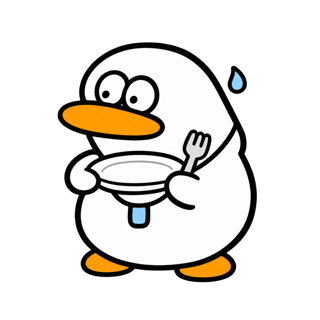
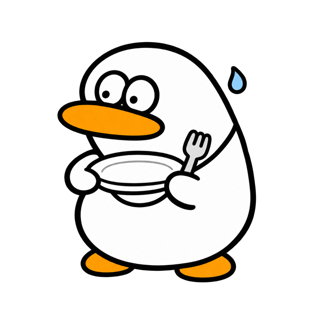
오둥이 등을 원래처럼 매끈하게 (아스트로가 다시 그림)
- 메인 그림 · 빈 접시 오둥이: 등에 생긴 굴곡을 없애고 하나의 곡선으로, 빈 접시 그림의 남은 카메라 끈 제거
- 앱 아이콘도 새 그림으로 다시 만듦

diff --git a/index.html b/index.html
@@ -17,7 +17,7 @@
 <link rel="apple-touch-icon" href="assets/icons/apple-touch-icon.png">
 <link rel="preconnect" href="https://cdn.jsdelivr.net" crossorigin>
 <link rel="stylesheet" href="https://cdn.jsdelivr.net/gh/orioncactus/pretendard@v1.3.9/dist/web/variable/pretendardvariable-dynamic-subset.min.css">
-<link rel="stylesheet" href="styles.css?v=17">
+<link rel="stylesheet" href="styles.css?v=18">
 <script>
   // 배포 직후 예전 파일과 새 파일이 섞여 앱이 시작하지 못하면, 한 번만 캐시를 비우고 새로 불러온다.
   (function () {
@@ -38,7 +38,7 @@
     setTimeout(function () { if (!window.__tsBooted) heal(); }, 6000);
   })();
 </script>
-<script type="module" src="js/app.js?v=17"></script>
+<script type="module" src="js/app.js?v=18"></script>
 </head>
 <body>
 <div id="app" class="app">

diff --git a/js/app.js b/js/app.js
@@ -1,13 +1,13 @@
 import {
   WEEKDAYS, MEALS, fmtClock, monthDay, dayKey, fromDayKey, fileStamp,
   relDay, mealLabel, mealFor, toLocalInput, fromLocalInput,
-} from './format.js?v=17';
-import { readExifDate } from './exif.js?v=17';
-import { drawStamp, STYLES, COLORS, styleUsesColor } from './stamp.js?v=17';
-import * as db from './db.js?v=17';
+} from './format.js?v=18';
+import { readExifDate } from './exif.js?v=18';
+import { drawStamp, STYLES, COLORS, styleUsesColor } from './stamp.js?v=18';
+import * as db from './db.js?v=18';
 
 // 배포할 때 scripts/bump-version.sh 가 함께 올린다
-const APP_VERSION = '17';
+const APP_VERSION = '18';
 
 const $ = (sel, root = document) => root.querySelector(sel);
 const $$ = (sel, root = document) => [...root.querySelectorAll(sel)];

diff --git a/js/stamp.js b/js/stamp.js
@@ -9,7 +9,7 @@
 //  meal    식단     왼쪽 위 끼니 라벨 + 시각 + 날짜
 //  capsule 캡슐     왼쪽 아래 반투명 둥근 바탕 위 한 줄
 
-import { fmtLongDate, fmtClock, monthDay, mealLabel, pad2 } from './format.js?v=17';
+import { fmtLongDate, fmtClock, monthDay, mealLabel, pad2 } from './format.js?v=18';
 
 const FONT = '"Pretendard Variable", Pretendard, -apple-system, BlinkMacSystemFont, "Apple SD Gothic Neo", "Noto Sans KR", sans-serif';
 

diff --git a/scripts/make-icons.swift b/scripts/make-icons.swift
@@ -18,8 +18,8 @@ func load(_ p: String) -> CGImage {
 let hero = load(heroPath)
 let clock = load(clockPath)
 
-// hero opaque box (top-left coords, 1024 art): x 174-868, y 84-947
-let heroBox = (x0: 174.0, x1: 868.0, y0: 84.0)
+// hero opaque box (top-left coords, 1024 art): x 175-861, y 83-948
+let heroBox = (x0: 175.0, x1: 861.0, y0: 83.0)
 
 func save(_ img: CGImage, _ name: String) {
   let url = URL(fileURLWithPath: outDir).appendingPathComponent(name)

diff --git a/sw.js b/sw.js
@@ -2,7 +2,7 @@
 // GitHub Pages는 파일을 10분씩 캐시하게 해서, 배포 직후 예전 파일과 새 파일이 섞일 수 있다.
 // 그래서 매번 서버에 바뀌었는지 물어보고(no-cache, 안 바뀌었으면 304로 가볍게), 끊겼을 때만 저장본을 쓴다.
 // 버전 숫자는 scripts/bump-version.sh 가 올린다.
-const VERSION = '17';
+const VERSION = '18';
 const CACHE = `timestamp-v${VERSION}`;
 const SHELL = [
   './',
